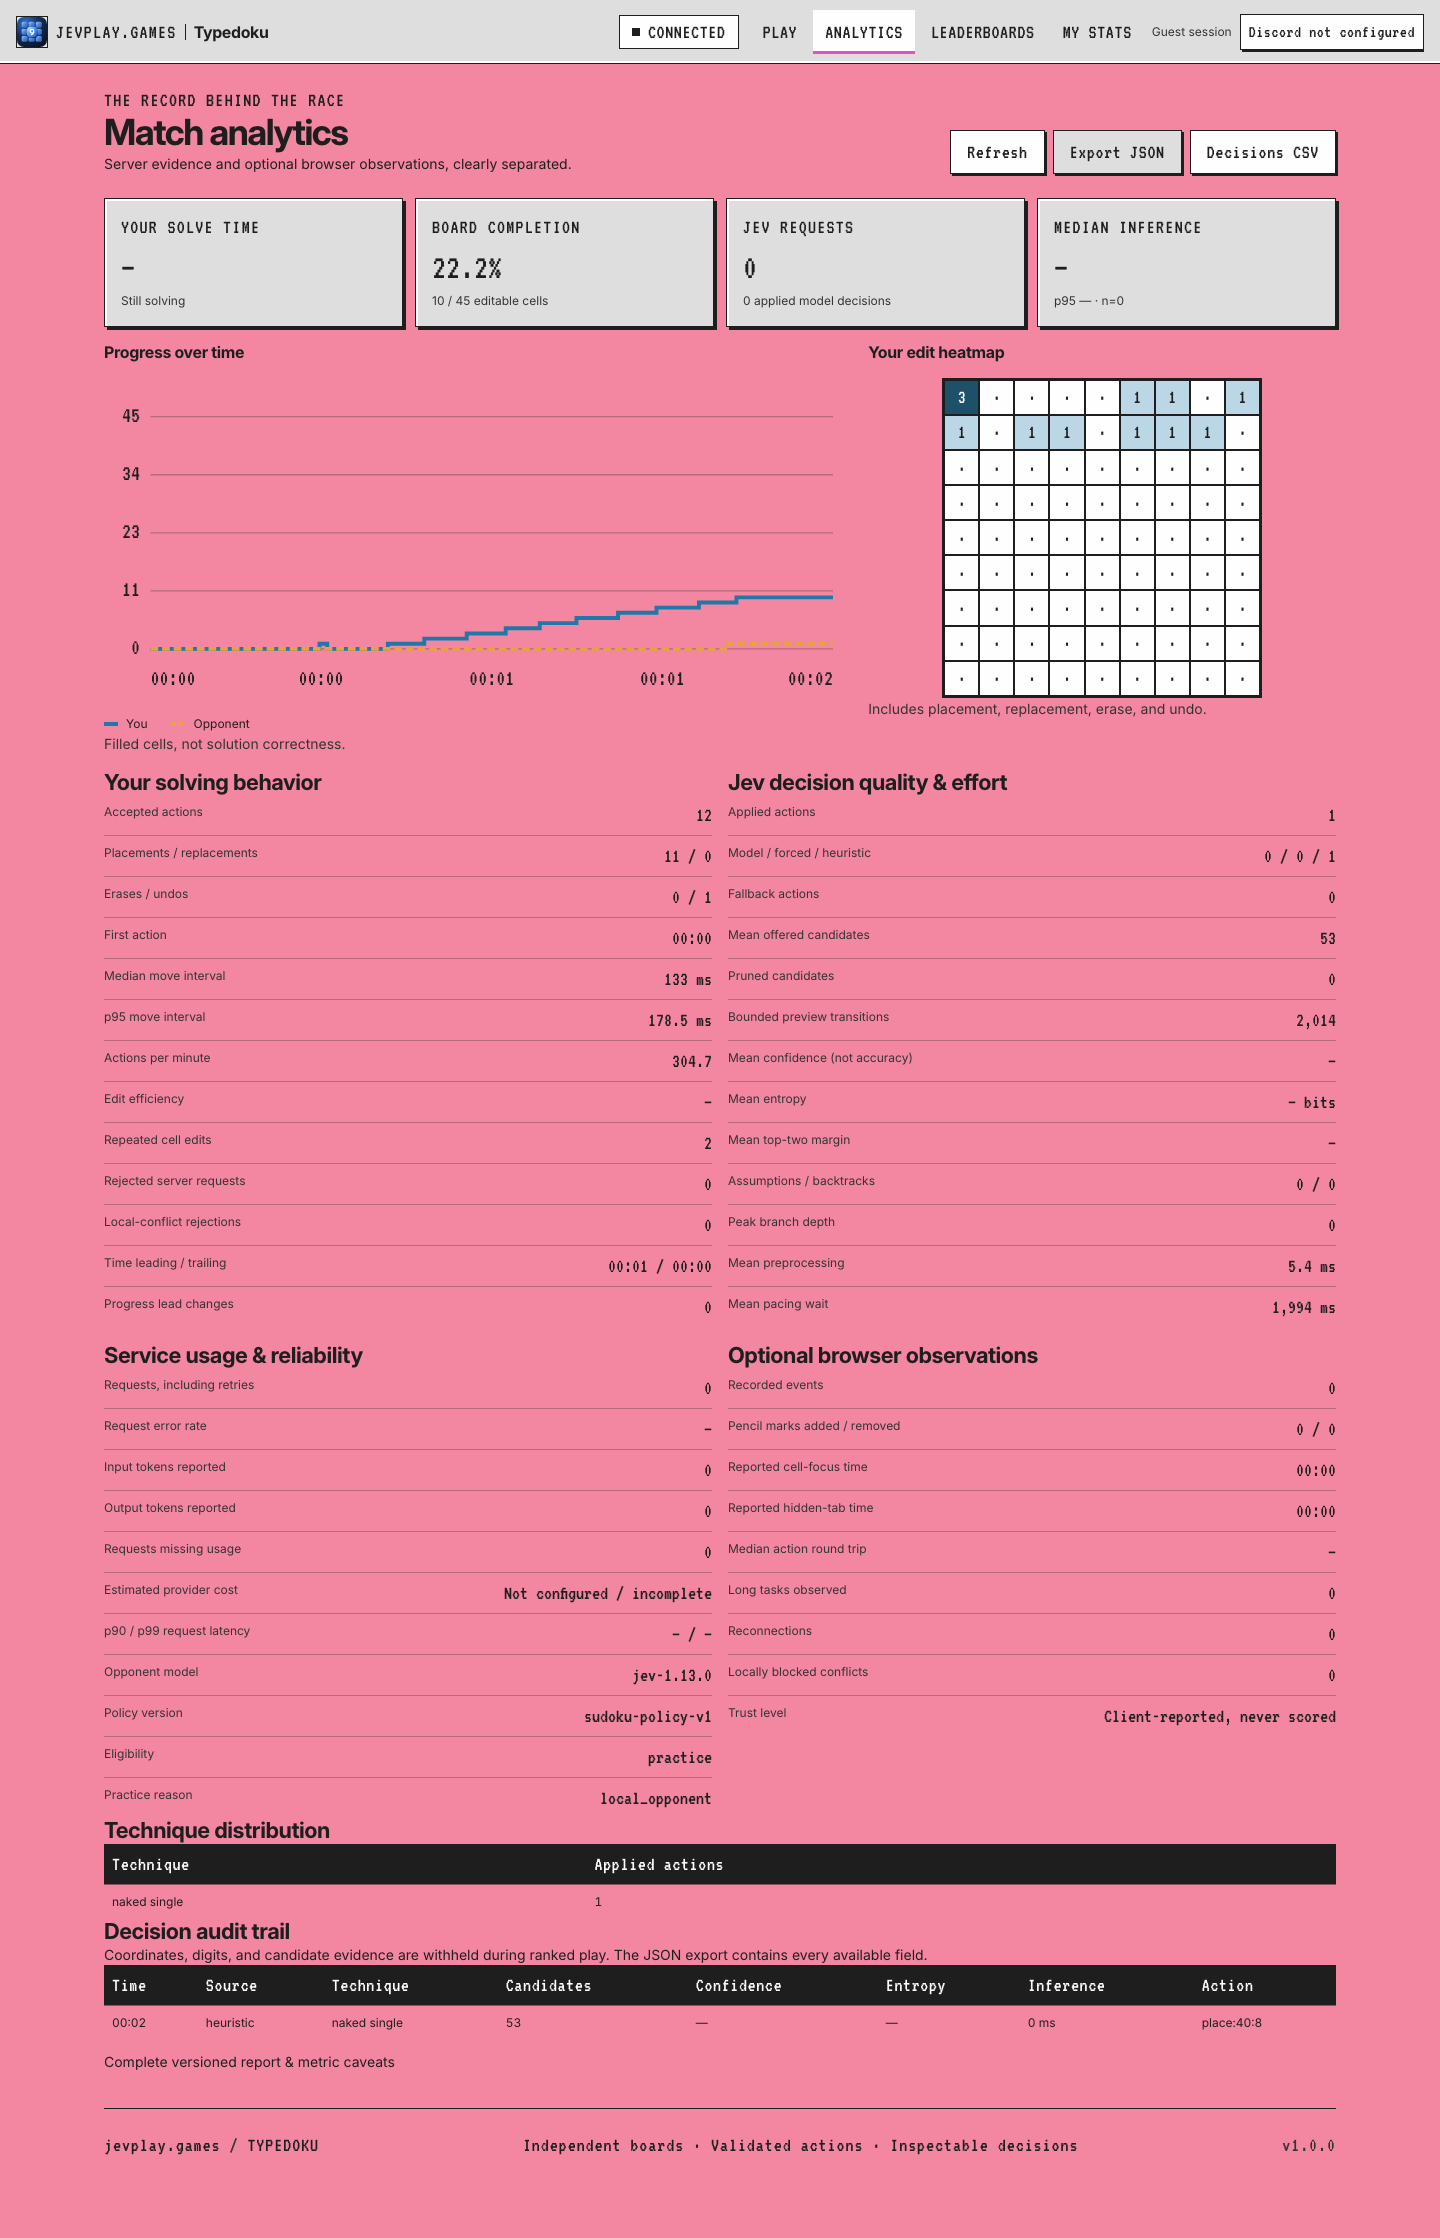
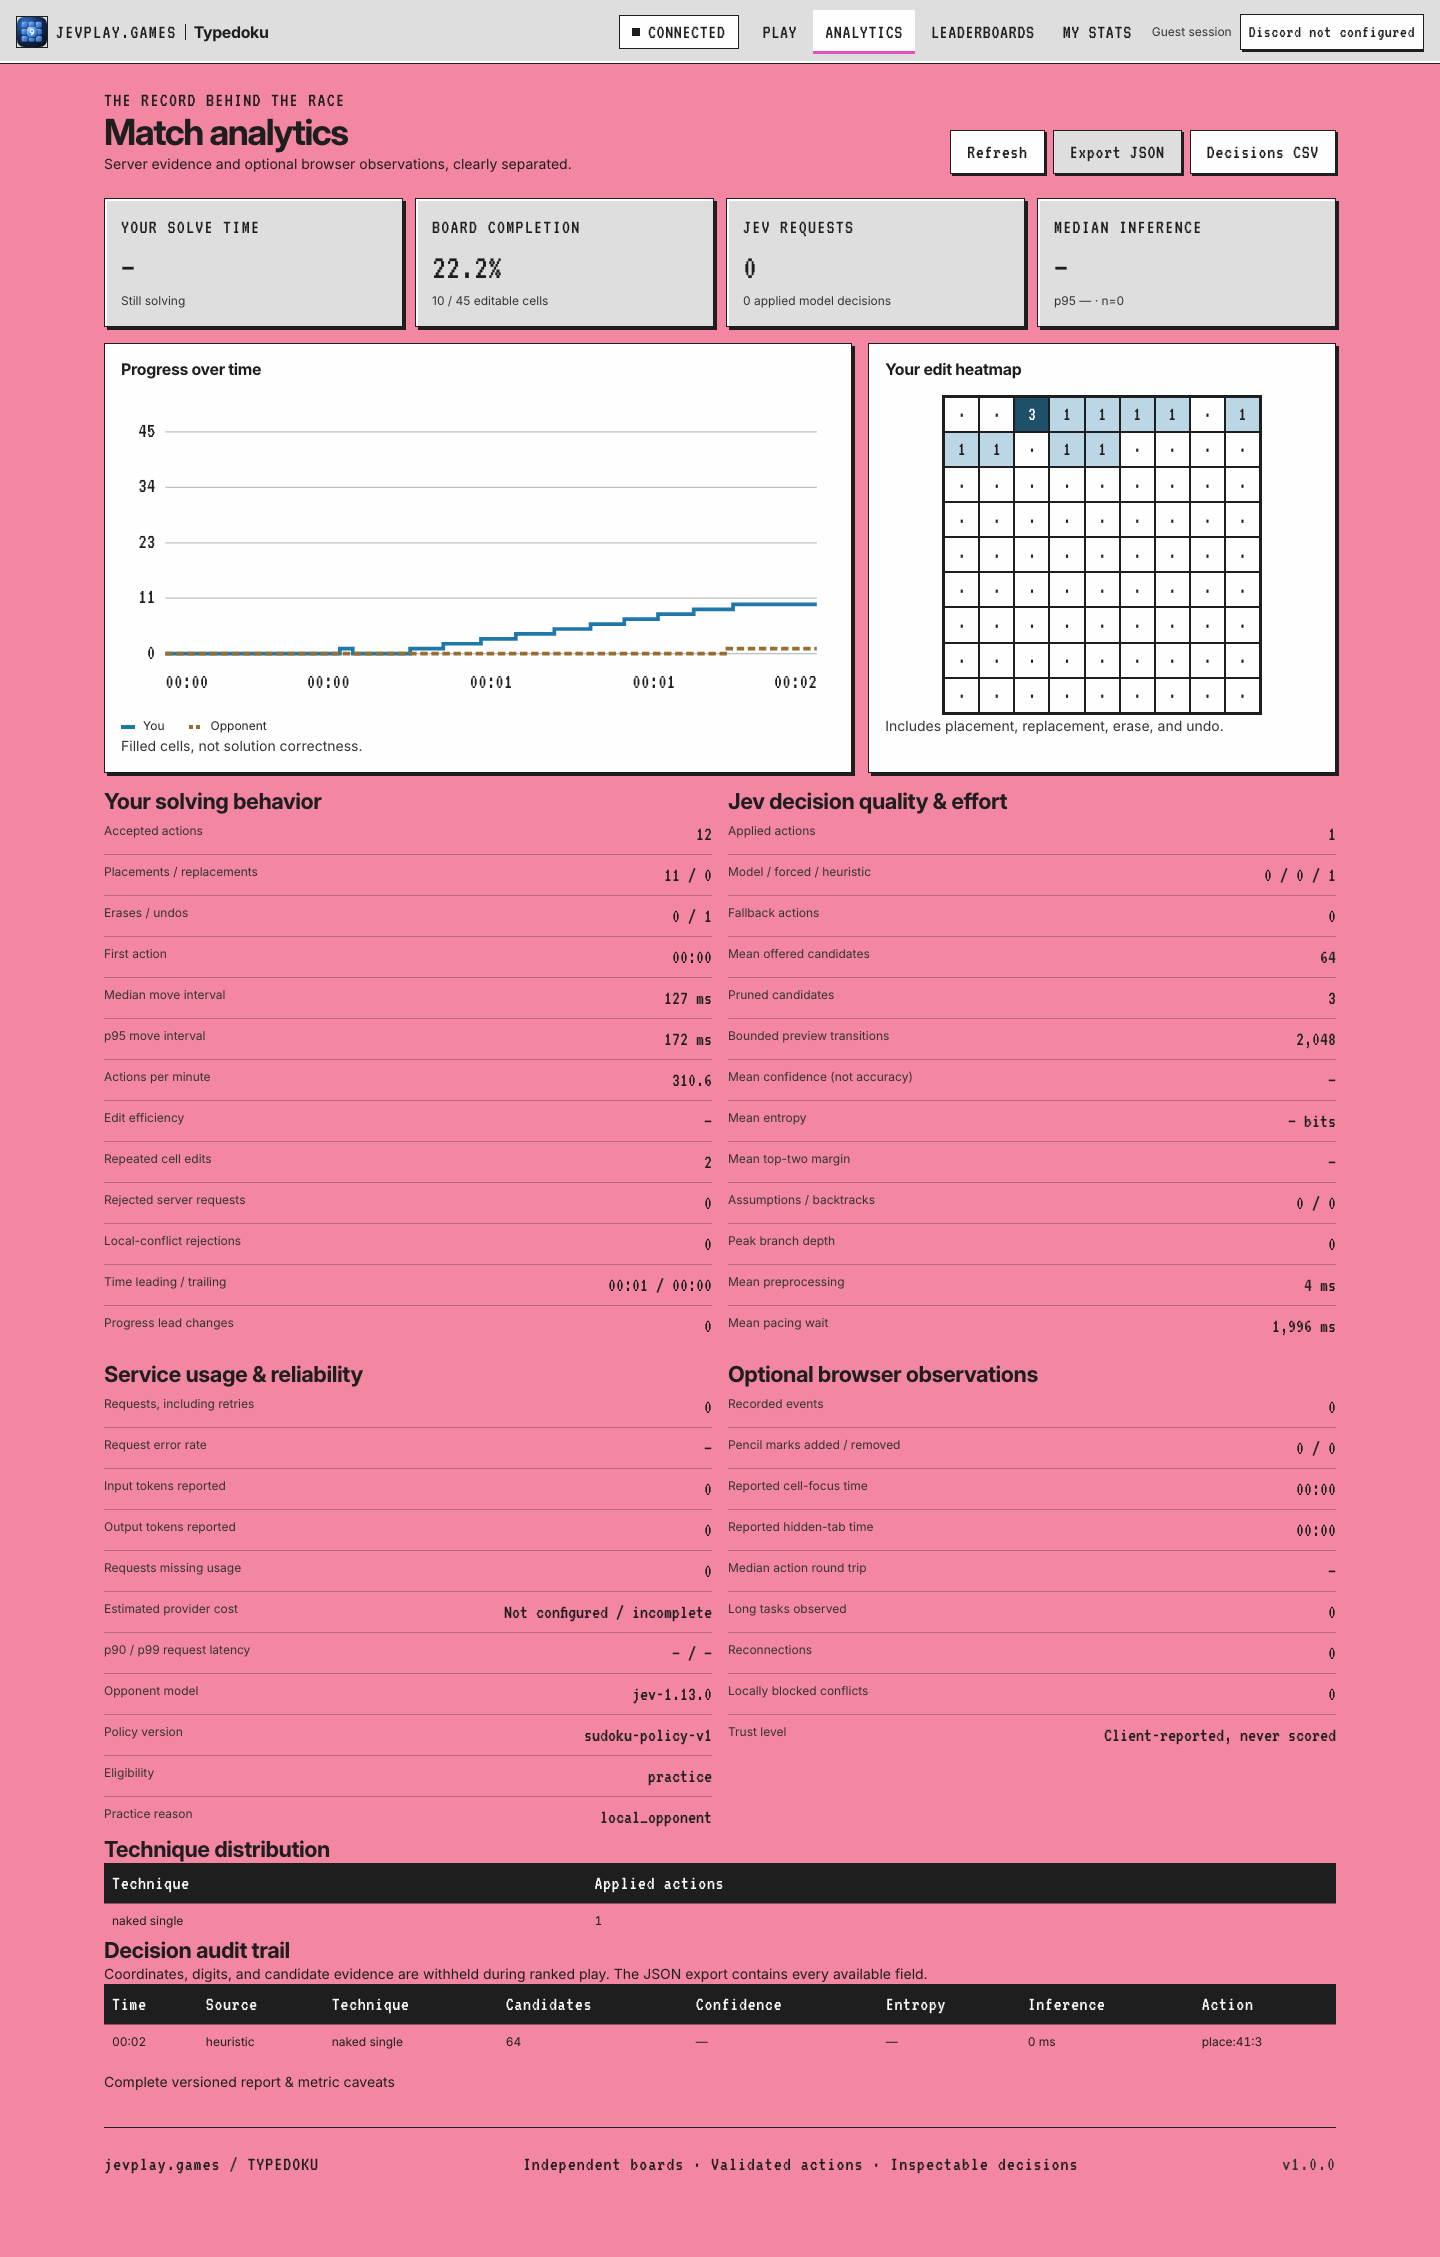
Readable charts on the pink theme; skip malformed LEGACY_APP_ORIGINS entries
- The progress chart and heatmap sat directly on the pink page, where the human line was 2.0:1 and Jev's amber line 1.1:1.
  Chart panels are now paper windows; series colours come from --chart-human (blue, 4.8:1) and --chart-jev (amber deepened
  with ink, 4.5:1), sampled from the 1440px screenshot. Legend swatches use the same tokens.
- A malformed, non-http(s) or (in production) plain-http LEGACY_APP_ORIGINS entry is now skipped instead of making
  loadConfig throw, which answered every request with 503. Test added.

diff --git a/public/game.css b/public/game.css
@@ -7,6 +7,8 @@
   --cell:var(--paper);--cell-given:var(--grey);--cell-line:var(--line-soft);--box-line:var(--ink);
   --cell-peer:color-mix(in srgb,var(--ink) 7%,var(--paper));--cell-given-peer:color-mix(in srgb,var(--ink) 16%,var(--grey));
   --cell-same:color-mix(in srgb,var(--magenta) 16%,var(--paper));
+  /* Chart series on the paper chart window: blue is 4.8:1; raw amber is 2.1:1, so Jev's line is amber deepened with ink (4.5:1). */
+  --chart-human:var(--human);--chart-jev:color-mix(in srgb,var(--jev) 60%,var(--ink));
   --empty-art:url(/art/empty.svg)
 }
 body{font-size:var(--fs-sm)}button,input,select{font:inherit}
@@ -119,15 +121,16 @@ kbd{font:var(--fs-xs)/1 var(--font-pixel);color:inherit;padding:1px 4px;border:1
 .kpi-note{font-size:var(--fs-xs);color:var(--muted)}
 .chart-grid{display:grid;grid-template-columns:1.6fr 1fr;gap:var(--s4)}
 .table-card,.chart-panel{margin:0 0 var(--s4)}
+.chart-panel{background:var(--paper);border:1px solid var(--ink);box-shadow:var(--drop);padding:var(--s4)}
 .jv-panel h2,.chart-panel h2{font-size:var(--fs-lg);margin:0 0 var(--s3)}.jv-panel p{font-size:var(--fs-xs);color:var(--muted)}.chart-panel h3{font-size:var(--fs-md);margin:0 0 var(--s4)}
 .chart-panel svg{width:100%;height:auto;display:block;overflow:visible}
 .chart-gridline{stroke:var(--line-soft);stroke-width:1}
-.chart-human{stroke:var(--human);fill:none;stroke-width:3}
-.chart-jev{stroke:var(--jev);fill:none;stroke-width:3;stroke-dasharray:6 3}
+.chart-human{stroke:var(--chart-human);fill:none;stroke-width:3}
+.chart-jev{stroke:var(--chart-jev);fill:none;stroke-width:3;stroke-dasharray:6 3}
 .chart-text{fill:var(--ink);font-family:var(--font-pixel);font-size:var(--fs-sm)}
 .chart-legend{display:flex;flex-wrap:wrap;gap:var(--s5);font-size:var(--fs-xs);margin:var(--s2) 0 0;color:var(--ink)}
-.legend-dot{display:inline-block;width:14px;height:4px;background:var(--human);vertical-align:middle;margin-right:var(--s2)}
-.legend-dot.jev{background:linear-gradient(90deg,var(--jev) 0 60%,transparent 60% 100%) 0 0/7px 4px}
+.legend-dot{display:inline-block;width:14px;height:4px;background:var(--chart-human);vertical-align:middle;margin-right:var(--s2)}
+.legend-dot.jev{background:linear-gradient(90deg,var(--chart-jev) 0 60%,transparent 60% 100%) 0 0/7px 4px}
 .heatmap{display:grid;grid-template-columns:repeat(9,minmax(0,1fr));gap:2px;max-width:20rem;margin:auto;padding:2px;background:var(--ink);border:1px solid var(--ink)}
 .heatcell{aspect-ratio:1;background:var(--paper);display:grid;place-items:center;border-radius:0;font-family:var(--font-pixel);font-size:var(--fs-md);color:var(--ink)}
 .heat-1{background:color-mix(in srgb,var(--human) 15%,var(--paper))}.heat-2{background:color-mix(in srgb,var(--human) 30%,var(--paper))}

diff --git a/server/config.js b/server/config.js
@@ -17,8 +17,10 @@ function buildConfig(env) {
   if (production && !origin.startsWith('https://')) throw new Error('APP_ORIGIN must use HTTPS in production');
   if (production && (!env.LAUNCH_SIGNING_KEY || env.LAUNCH_SIGNING_KEY.length < 32)) throw new Error('Set a random LAUNCH_SIGNING_KEY of at least 32 characters');
   // Hostnames still served during a rename (comma-separated origins). The canonical APP_ORIGIN is the one new links use.
-  const legacyOrigins = String(env.LEGACY_APP_ORIGINS || '').split(',').map(x => x.trim()).filter(Boolean).map(x => new URL(x).origin).filter(x => x !== origin);
-  if (production && legacyOrigins.some(x => !x.startsWith('https://'))) throw new Error('LEGACY_APP_ORIGINS must use HTTPS in production');
+  // A malformed entry, or a plain-http one in production, is skipped rather than failing every request: the canonical origin still works.
+  const parsedOrigin = x => { try { const u = new URL(x); return /^https?:$/.test(u.protocol) && u.host ? u.origin : null; } catch { return null; } };
+  const legacyOrigins = [...new Set(String(env.LEGACY_APP_ORIGINS || '').split(',').map(x => parsedOrigin(x.trim())))]
+    .filter(x => x && x !== origin && (!production || x.startsWith('https://')));
   const discordClientId = env.DISCORD_CLIENT_ID || '';
   return {
     production, origin, origins: [origin, ...legacyOrigins], activityOrigin: /^\d{5,25}$/.test(discordClientId) ? `https://${discordClientId}.discordsays.com` : null,

diff --git a/tests/config.test.js b/tests/config.test.js
@@ -35,3 +35,12 @@ test('config is derived from the Discord client id and cached per env object', (
   assert.equal(loadConfig(env), c);
   assert.equal(loadConfig({ APP_ORIGIN: 'http://localhost:3000' }).activityOrigin, null);
 });
+test('malformed or insecure LEGACY_APP_ORIGINS entries are skipped instead of breaking every request', async () => {
+  const { handle } = await import('../server/worker.js'); const { environment, context } = await import('./helpers.js');
+  const config = loadConfig({ APP_ORIGIN: 'https://typedoku.jevplay.games', LAUNCH_SIGNING_KEY: 'a'.repeat(64),
+    LEGACY_APP_ORIGINS: 'not a url, https://sudoku.jevplay.games/some/path , http://plain.jevplay.games,javascript:alert(1),,https://typedoku.jevplay.games,https://sudoku.jevplay.games' });
+  assert.deepEqual(config.origins, ['https://typedoku.jevplay.games', 'https://sudoku.jevplay.games']);
+  const env = environment({ APP_ORIGIN: 'https://typedoku.jevplay.games', LEGACY_APP_ORIGINS: '::::,https://sudoku.jevplay.games' });
+  const r = await handle(new Request('https://typedoku.jevplay.games/api/health'), env, context());
+  assert.equal(r.status, 200);
+});
